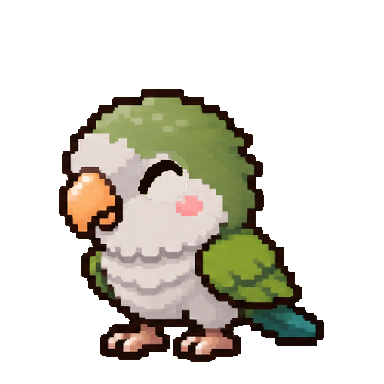
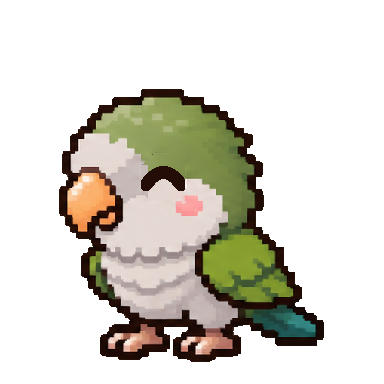
Nuôi thú: Abu giai đoạn Con nhỏ có đủ 12 hoạt hình (48 khung, bộ đã duyệt), thay bộ cũ chỉ có nháy mắt; WebP không mất dữ liệu, giống từng pixel bản PNG

Changed region(s): [[0.3438, 0.375, 0.5, 0.5312]]

diff --git a/server/pets.js b/server/pets.js
@@ -229,7 +229,9 @@ function moodOf(st) {
 const ART = { abu: true };
 const spriteUrl = (kind, stage) => (ART[kind] ? `/pets/${kind}/stage_${stage}.webp` : null);
 // Hoạt hình đã có (theo bạn và giai đoạn): idle, walk, happy. Giai đoạn nào chưa có thì hiển thị hình tĩnh.
-const ANIM = { abu: { 0: { idle: { fps: 6, n: 2, blink: true }, walk: { fps: 8, n: 6 }, happy: { fps: 8, n: 4 }, hungry: { fps: 6, n: 4 }, bored: { fps: 6, n: 4 }, dirty: { fps: 6, n: 4 }, sleepy: { fps: 6, n: 4 }, sad: { fps: 6, n: 4 }, eat: { fps: 6, n: 4 }, play: { fps: 8, n: 4 }, wash: { fps: 6, n: 4 }, sleep: { fps: 6, n: 4 } }, 1: { idle: { fps: 6, n: 2, blink: true } } } };
+// Abu giai đoạn Bé (0) và Con nhỏ (1) có đủ 12 hoạt hình, cùng số khung và FPS
+const ABU_ANIM = { idle: { fps: 6, n: 2, blink: true }, walk: { fps: 8, n: 6 }, happy: { fps: 8, n: 4 }, hungry: { fps: 6, n: 4 }, bored: { fps: 6, n: 4 }, dirty: { fps: 6, n: 4 }, sleepy: { fps: 6, n: 4 }, sad: { fps: 6, n: 4 }, eat: { fps: 6, n: 4 }, play: { fps: 8, n: 4 }, wash: { fps: 6, n: 4 }, sleep: { fps: 6, n: 4 } };
+const ANIM = { abu: { 0: ABU_ANIM, 1: ABU_ANIM } };
 const animFor = (kind, stage) => {
   const a = ANIM[kind]?.[stage];
   return a ? Object.fromEntries(Object.entries(a).map(([name, v]) => [name, { fps: v.fps, ...(v.blink ? { blink: true } : {}), urls: Array.from({ length: v.n }, (_, i) => `/pets/${kind}/s${stage}/${name}/${String(i + 1).padStart(2, '0')}.webp`) }])) : null;

diff --git a/test/api.test.js b/test/api.test.js
@@ -2012,8 +2012,9 @@ test('Nuôi thú: cửa hàng đồ ăn, đồ chơi, nhà/lồng/bể; vật ph
     assert.deepEqual(Object.fromEntries(Object.entries(abuPet.anim).map(([k, v]) => [k, v.urls.length])), { idle: 2, walk: 6, happy: 4, hungry: 4, bored: 4, dirty: 4, sleepy: 4, sad: 4, eat: 4, play: 4, wash: 4, sleep: 4 });
     assert.equal(abuPet.anim.walk.fps, 8); assert.equal(abuPet.anim.idle.blink, true); assert.equal(uni.anim, null);
     for (const a of Object.values(abuPet.anim)) for (const u of a.urls) assert.ok((await import('node:fs')).existsSync(`public${u}`), u);
-    // Giai đoạn Con nhỏ: mới có idle nháy mắt (2 khung), tệp có thật
-    for (const n of ['01', '02']) assert.ok((await import('node:fs')).existsSync(`public/pets/abu/s1/idle/${n}.webp`));
+    // Giai đoạn Con nhỏ: đủ 12 hoạt hình như giai đoạn Bé, tệp có thật
+    const fs1 = await import('node:fs');
+    for (const [a, v] of Object.entries(abuPet.anim)) for (let i = 1; i <= v.urls.length; i++) assert.ok(fs1.existsSync(`public/pets/abu/s1/${a}/${String(i).padStart(2, '0')}.webp`), `s1 ${a} ${i}`);
     db.prepare('UPDATE pets SET food = 20, stat_at = ? WHERE id = ?').run(now(), uni.id);
     assert.equal((await call('POST', `/pets/${uni.id}/feed`, { food: 'dog_tiec' }, u.token)).status, 400);
     assert.equal((await call('POST', '/pets/shop/buy', { item: 'food:dog_tiec', qty: 2 }, u.token)).status, 200);
